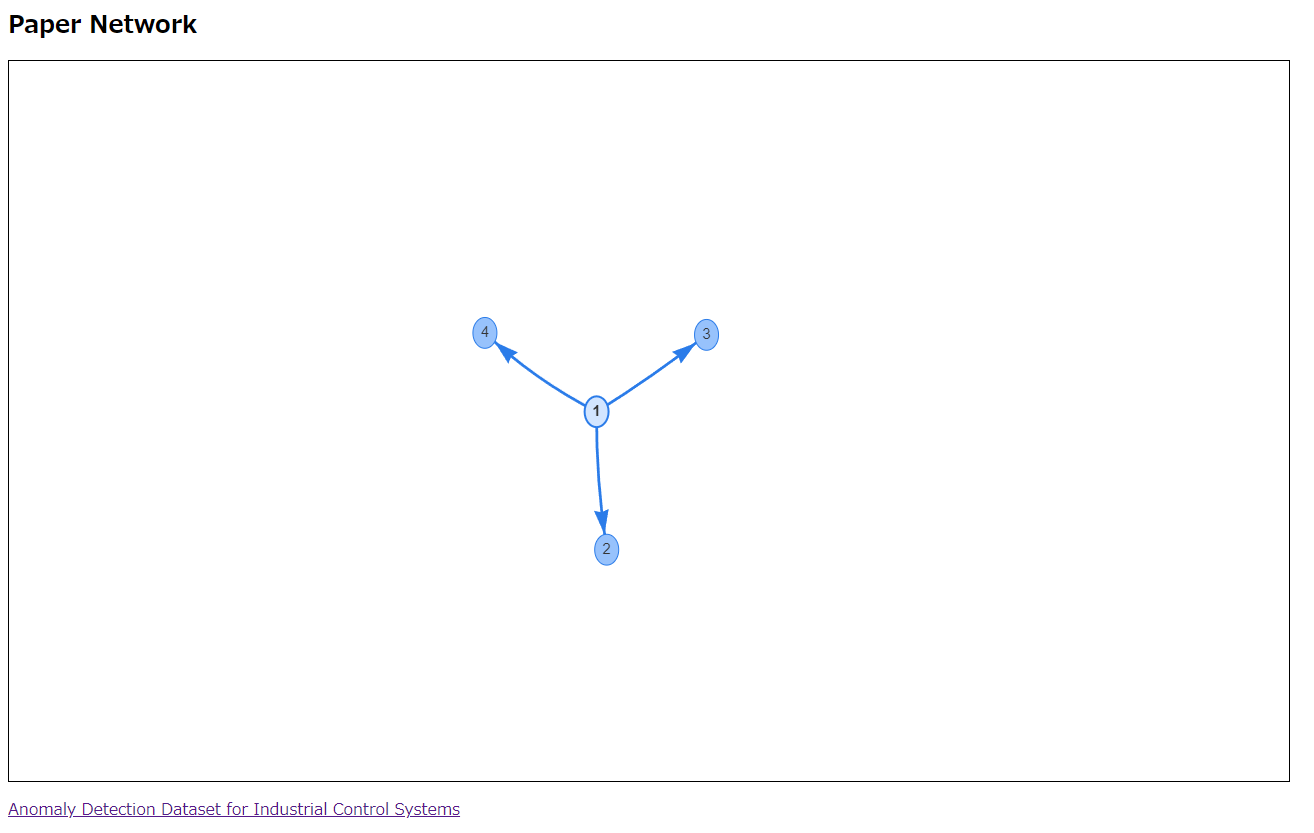
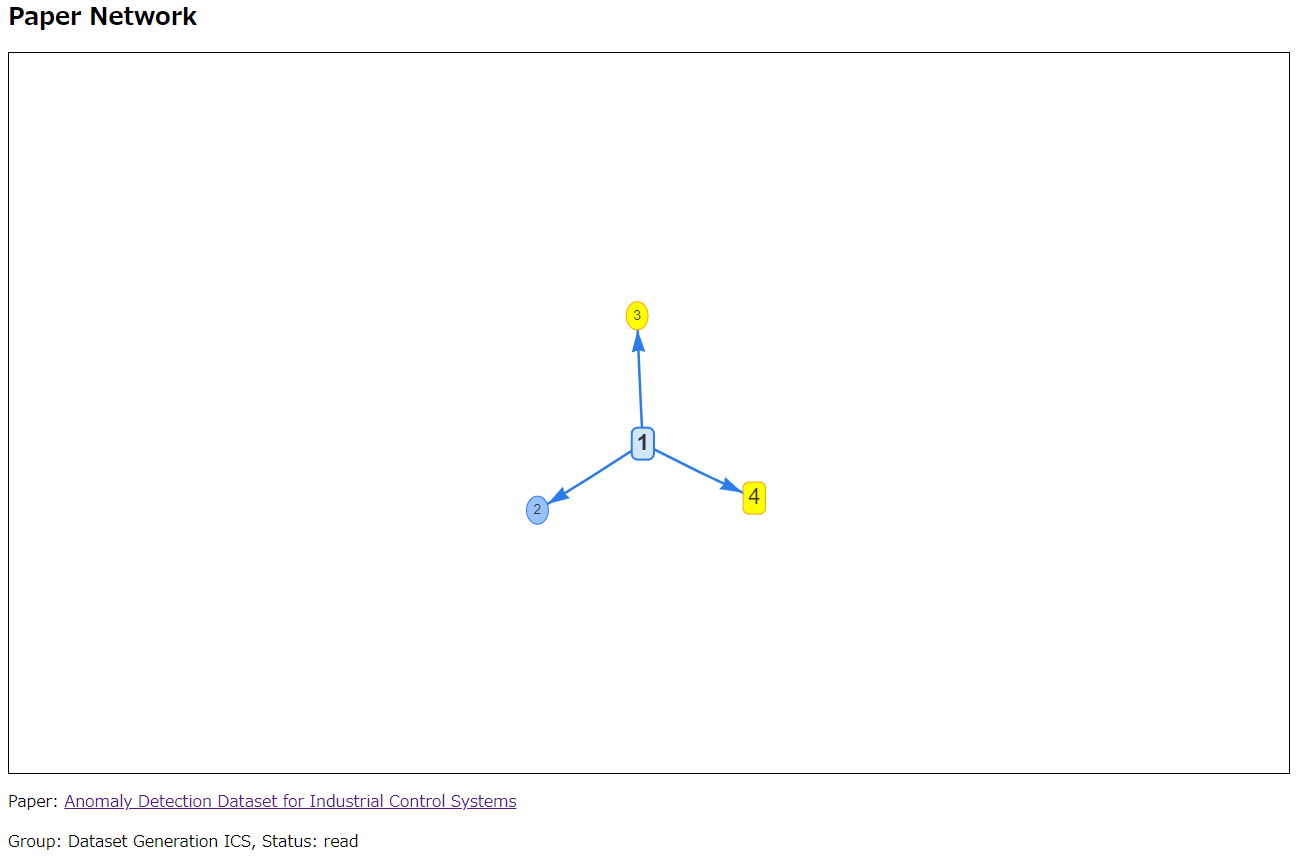
update script

diff --git a/out/script.js b/out/script.js
@@ -1,8 +1,8 @@
 var nodes = new vis.DataSet([
-{id: 1, label: '1', title: 'Anomaly Detection Dataset for Industrial Control Systems', link: 'https://arxiv.org/abs/2305.09678'},
-{id: 2, label: '2', title: 'On the Generation of Anomaly Detection Datasets in Industrial Control Systems', link: 'https://ieeexplore.ieee.org/document/8926471'},
-{id: 3, label: '3', title: 'ICSSIM - A framework for building industrial control systems security testbeds', link: 'https://www.sciencedirect.com/science/article/pii/S0166361523000568'},
-{id: 4, label: '4', title: 'SWaT: a water treatment testbed for research and training on ICS security', link: 'https://ieeexplore.ieee.org/document/7469060'},
+{id: 1, label: '1', group: 'Dataset Generation ICS', status: 'read', shape: 'box', value: 20, scaling: { label: {enabled: true} }, title: 'Anomaly Detection Dataset for Industrial Control Systems', link: 'https://arxiv.org/abs/2305.09678'},
+{id: 2, label: '2', group: 'Dataset Generation ICS', status: 'unread', title: 'On the Generation of Anomaly Detection Datasets in Industrial Control Systems', link: 'https://ieeexplore.ieee.org/document/8926471'},
+{id: 3, label: '3', group: 'ICS Testbed', status: 'unread', title: 'ICSSIM - A framework for building industrial control systems security testbeds', link: 'https://www.sciencedirect.com/science/article/pii/S0166361523000568'},
+{id: 4, label: '4', group: 'ICS Testbed', status: 'read', shape: 'box', value: 20, scaling: { label: {enabled: true} }, title: 'SWaT: a water treatment testbed for research and training on ICS security', link: 'https://ieeexplore.ieee.org/document/7469060'},
 ]);
 var edges = new vis.DataSet([
 {from: 1, to: 2, arrows: 'to'},
@@ -25,5 +25,6 @@ network.on("click",function(params){
     }
     var param = nodes.get(nodeId);
     console.log(param)
-    document.getElementById("title").innerHTML = "<a href=" + param["link"] + ">" + param["title"] + "</a>";
+    document.getElementById("title").innerHTML = "Paper: " + "<a href=" + param["link"] + ">" + param["title"] + "</a>";
+    document.getElementById("group_and_status").innerHTML = "Group: " + param["group"] + ", " + "Status: " + param["status"];
 });

diff --git a/template.js b/template.js
@@ -14,5 +14,6 @@ network.on("click",function(params){
     }
     var param = nodes.get(nodeId);
     console.log(param)
-    document.getElementById("title").innerHTML = "<a href=" + param["link"] + ">" + param["title"] + "</a>";
+    document.getElementById("title").innerHTML = "Paper: " + "<a href=" + param["link"] + ">" + param["title"] + "</a>";
+    document.getElementById("group_and_status").innerHTML = "Group: " + param["group"] + ", " + "Status: " + param["status"];
 });

diff --git a/out/sample.html b/out/sample.html
@@ -15,5 +15,6 @@
     <div id="network"></div>
     <script src="./script.js" th:src="@{./script.js}"></script>
     <p id="title"></p>
+    <p id="group_and_status"></p>
   </body>
 </html>

diff --git a/generate_vis_js.py b/generate_vis_js.py
@@ -50,10 +50,21 @@ def _get_graph(d):
     """
     nodes = []; edges = []
     for data in d:
-        node = "{id: " + str(data['id']) \
-            + ", label: '" + str(data['id']) \
-                + "', title: '" + data['title'] + "'" \
-                    + ", link: '" + data['link'] + "'" + '}'
+        if data['status'] == 'read':
+            node = "{id: " + str(data['id']) \
+                + ", label: '" + str(data['id']) \
+                    + "', group: '" + data['group'] \
+                        + "', status: '" + data['status'] \
+                            + "', shape: 'box', value: 20, scaling: { label: {enabled: true} }" \
+                                + ", title: '" + data['title'] + "'" \
+                                    + ", link: '" + data['link'] + "'" + '}'
+        else:
+            node = "{id: " + str(data['id']) \
+                + ", label: '" + str(data['id']) \
+                    + "', group: '" + data['group'] \
+                        + "', status: '" + data['status'] \
+                            + "', title: '" + data['title'] + "'" \
+                                + ", link: '" + data['link'] + "'" + '}'
         nodes.append(node)
         for n in data['next']:
             edge= "{from: " + str(data['id']) \
